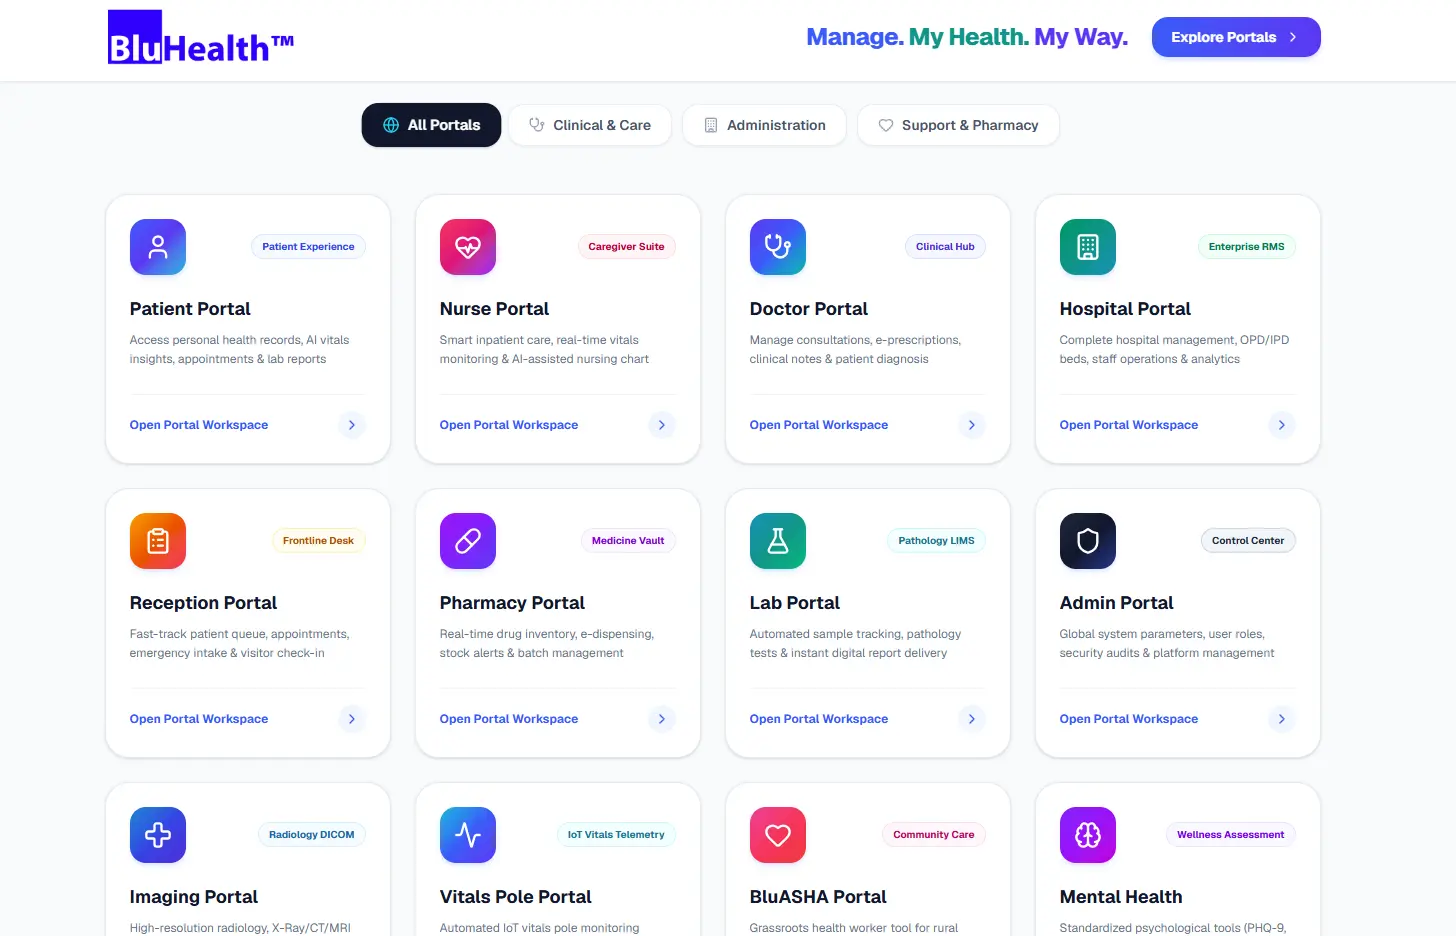
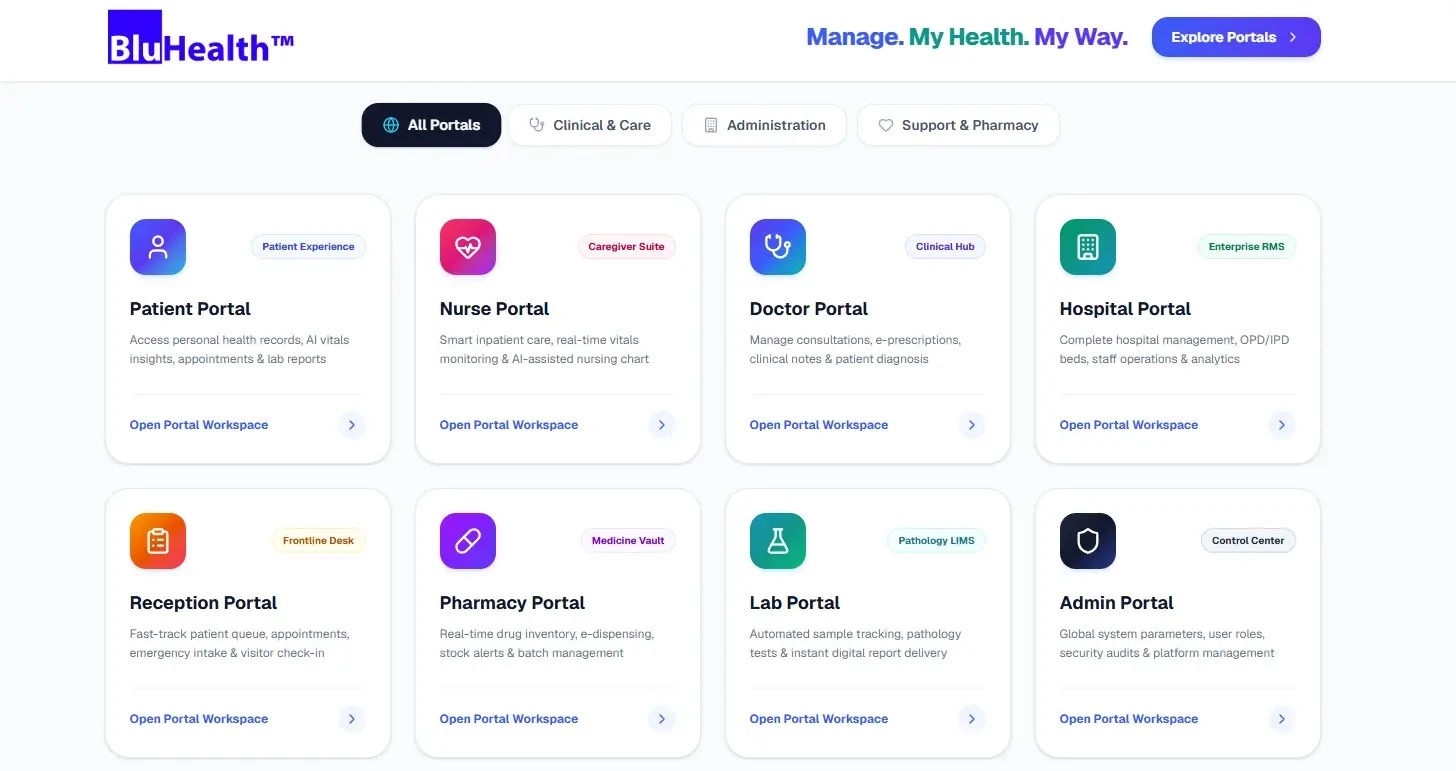
update in bluhealth doctor portal image and learn more

diff --git a/app/products/blu-health/BluHealthClient.jsx b/app/products/blu-health/BluHealthClient.jsx
@@ -692,15 +692,14 @@ export default function BluHealthClient() {
   return (
     <>
       {/* ============ HERO ============ */}
-      <Box
-        sx={{
-          position: "relative",
-          bgcolor: "#F7F9FF",
-          pt: { xs: 4, md: 5 },
-          pb: { xs: 6, md: 8 },
-          overflow: "hidden",
-        }}
-      >
+ <Box
+       sx={{
+         position: "relative",
+         overflow: "hidden",
+         bgcolor: "#F7F9FF",
+         py: { xs: 7, md: 11 },
+       }}
+     >
         <Box
           sx={{
             position: "absolute",
@@ -781,51 +780,29 @@ export default function BluHealthClient() {
                 ecosystem.
               </Typography>
 
-              <Stack
-                direction={{ xs: "column", sm: "row" }}
-                spacing={2}
-                sx={{ mt: 4 }}
+              <Button
+                variant="contained"
+                endIcon={<ArrowForwardIcon />}
+                onClick={() => {
+                  document.getElementById("read-more-section")?.scrollIntoView({
+                    behavior: "smooth",
+                    block: "start",
+                  });
+                }}
+                sx={{
+                  bgcolor: "#1B4DFF",
+                  borderRadius: 40,
+                  textTransform: "none",
+                  fontWeight: 700,
+                  px: 3,
+                  mt: 4,
+                  py: 1.3,
+                  boxShadow: "0 10px 25px rgba(27,77,255,0.25)",
+                  "&:hover": { bgcolor: "#0a3ad0" },
+                }}
               >
-                <Button
-                  variant="contained"
-                  component="a"
-                  href="https://bluhealthdev.bluai.ai/"
-                  target="_blanck"
-                  
-                  endIcon={<ArrowForwardIcon />}
-                  sx={{
-                    bgcolor: "#1B4DFF",
-                    borderRadius: 40,
-                    textTransform: "none",
-                    fontWeight: 700,
-                    px: 3,
-                    py: 1.3,
-                    boxShadow: "0 10px 25px rgba(27,77,255,0.25)",
-                    "&:hover": { bgcolor: "#0a3ad0" },
-                  }}
-                >
-                  Live Demo
-                </Button>
-                {/* <Button
-                  variant="outlined"
-                  startIcon={<PlayCircleOutlineIcon />}
-                  sx={{
-                    borderRadius: 40,
-                    textTransform: "none",
-                    fontWeight: 700,
-                    px: 3,
-                    py: 1.3,
-                    color: "#07122C",
-                    borderColor: "rgba(27,77,255,0.3)",
-                    "&:hover": {
-                      borderColor: "#1B4DFF",
-                      bgcolor: "rgba(27,77,255,0.04)",
-                    },
-                  }}
-                >
-                  Watch Video
-                </Button> */}
-              </Stack>
+                Read More
+              </Button>
             </Box>
 
             {/* RIGHT — mock dashboard with background image */}
@@ -1133,7 +1110,7 @@ export default function BluHealthClient() {
                     {screen.tag}
                   </Box>
 
-                 
+
                 </Box>
 
                 {/* ─── Body ─── */}
@@ -1289,7 +1266,7 @@ export default function BluHealthClient() {
       </Box> */}
 
       {/* ============ KEY HIGHLIGHTS ============ */}
-      <Box sx={{ py: { xs: 7, md: 10 }, bgcolor: "#fff" }}>
+      <Box id="read-more-section" sx={{ py: { xs: 7, md: 10 }, bgcolor: "#fff" }}>
         <Container maxWidth="xl">
           <Box textAlign="center" mb={{ xs: 4, md: 6 }}>
             <Typography

diff --git a/components/navbars/products/BluHealthNavbar.jsx b/components/navbars/products/BluHealthNavbar.jsx
@@ -90,10 +90,10 @@ export default function BluHealthNavbar() {
                             <Image
                                 src="/logos/BluHealth-logo.png"
                                 alt="BluAccess"
-                                width={95}
+                                width={100}
                                 height={95}
                                 priority
-                                style={{ width: "auto", height: "auto", maxHeight: 58 }}
+                                style={{ width: "auto", height: "auto", maxHeight: 65 }}
                             />
                         </Box>
 

diff --git a/components/HeroSection.jsx b/components/HeroSection.jsx
@@ -394,7 +394,7 @@ export default function HeroSection() {
                 "&:hover": { borderColor: "#fff", bgcolor: "rgba(255,255,255,0.1)" }
               }}
             >
-              Explore our products →
+              Explore our product →
             </Button>
           </Stack>
 
